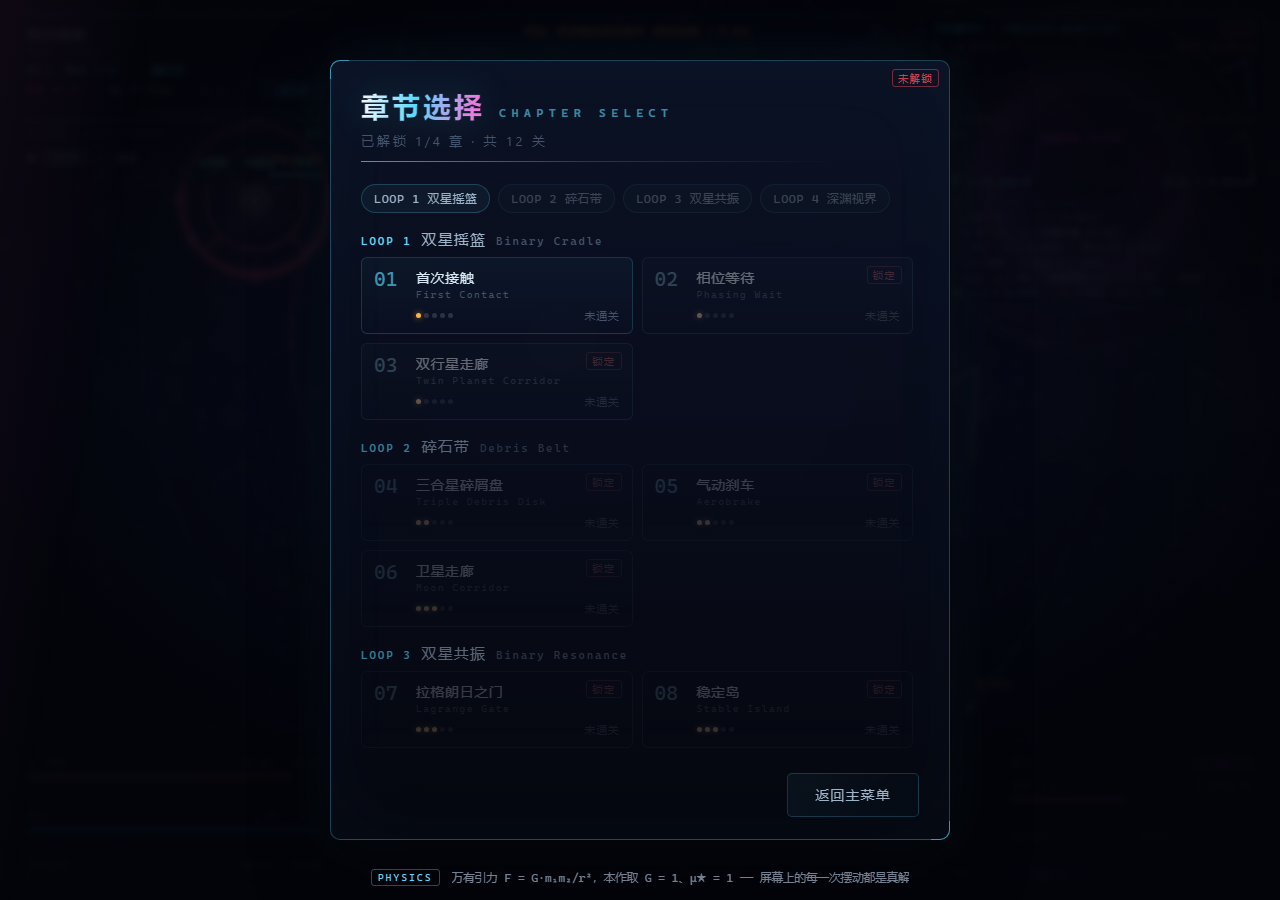
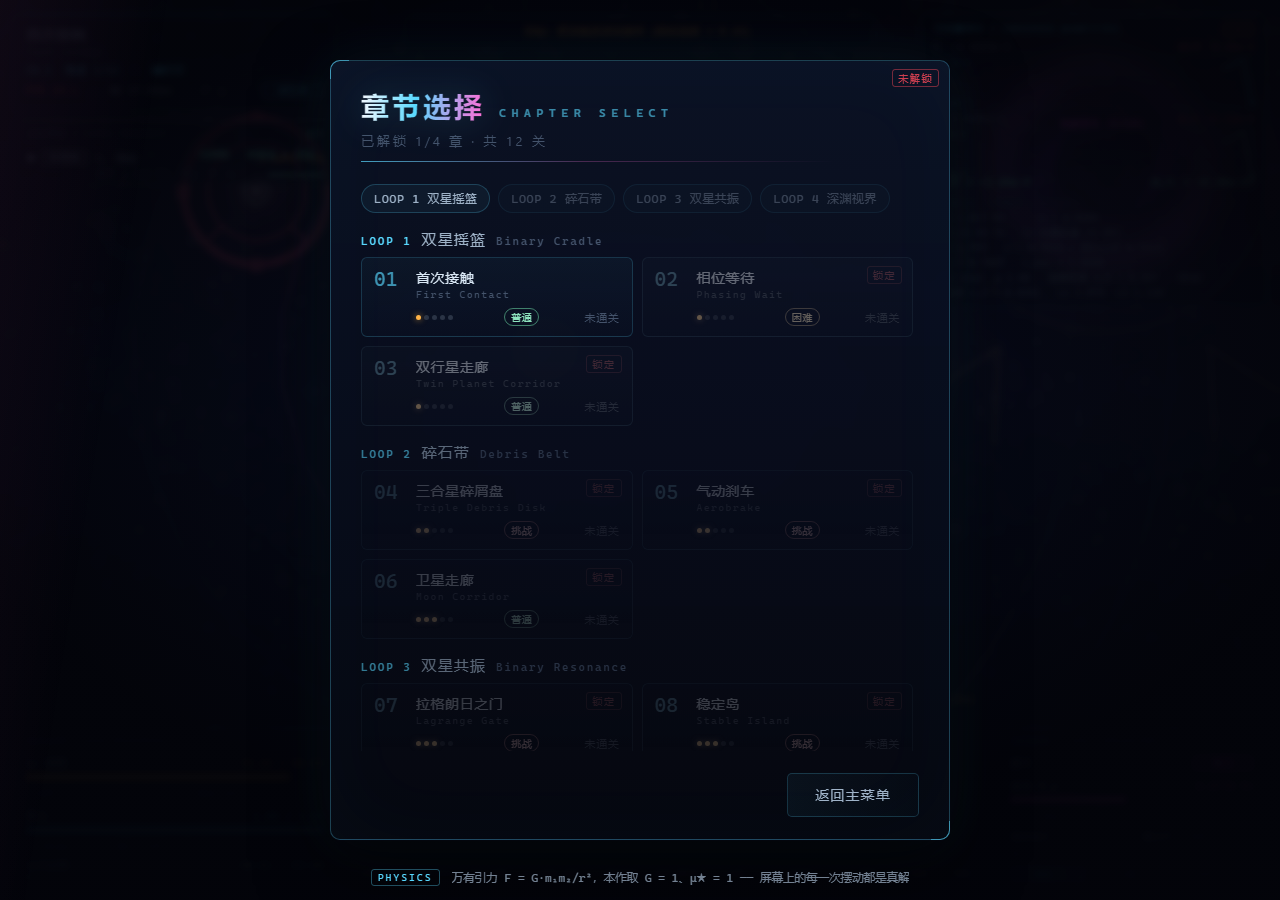
fix(ui): 关卡列表显示难度档位（此前补丁被同名类误判跳过）
- 真因：menu.ts 里本来就有个同名不同用途的 .lc-grade（结算页评分徽章），
  我的守卫 'lc-grade' in code 误判为已存在，导致卡片模板的插入被跳过；
  数据侧其实一直正常（/api/levels 里 12 关全带 difficulty_label）
- 改用不冲突的 lc-gradetag + 专属配色样式
- 实测：关卡列表渲染出 12 个档位标签，与探针分档完全一致
  ['普通','困难','普通','挑战','挑战','普通','挑战','挑战','困难','普通','挑战','挑战']

diff --git a/web/styles.css b/web/styles.css
@@ -1027,3 +1027,10 @@ html, body {
   font-family: ui-monospace, Consolas, monospace; font-size: 12.5px;
   user-select: all; -webkit-user-select: all; word-break: break-all; }
 .lc-nav-about { flex-wrap: wrap; gap: 8px; }
+
+/* ---- 难度档位标签（tools/difficulty_probe.py 用 AI 探针实测得出；勿与结算页 .lc-grade 混用）---- */
+.lc-gradetag { display: inline-block; margin-left: 6px; padding: 1px 6px; border-radius: 999px;
+  font-size: 10px; letter-spacing: .06em; border: 1px solid rgba(140,180,255,.35); color: rgba(190,215,255,.9); }
+.lc-gradetag[data-grade="普通"] { border-color: rgba(110,220,170,.55); color: rgba(150,240,200,.95); }
+.lc-gradetag[data-grade="困难"] { border-color: rgba(255,200,110,.55); color: rgba(255,220,150,.95); }
+.lc-gradetag[data-grade="挑战"] { border-color: rgba(255,130,130,.55); color: rgba(255,170,170,.95); }

diff --git a/src/ui/menu.ts b/src/ui/menu.ts
@@ -637,6 +637,7 @@ export class Menu {
           <span class="lc-card-en">${esc(lv.name_en)}</span>
           <span class="lc-card-foot">
             ${difficultyDots(lv.difficulty)}
+              ${lv.difficulty_label ? `<span class="lc-gradetag" data-grade="${esc(lv.difficulty_label)}">${esc(lv.difficulty_label)}</span>` : ''}
             ${best
               ? `<span class="lc-best ${gradeClass(best.grade)}">${fmtInt(best.score)} ${esc(best.grade)}</span>`
               : '<span class="lc-best g-none">未通关</span>'}
